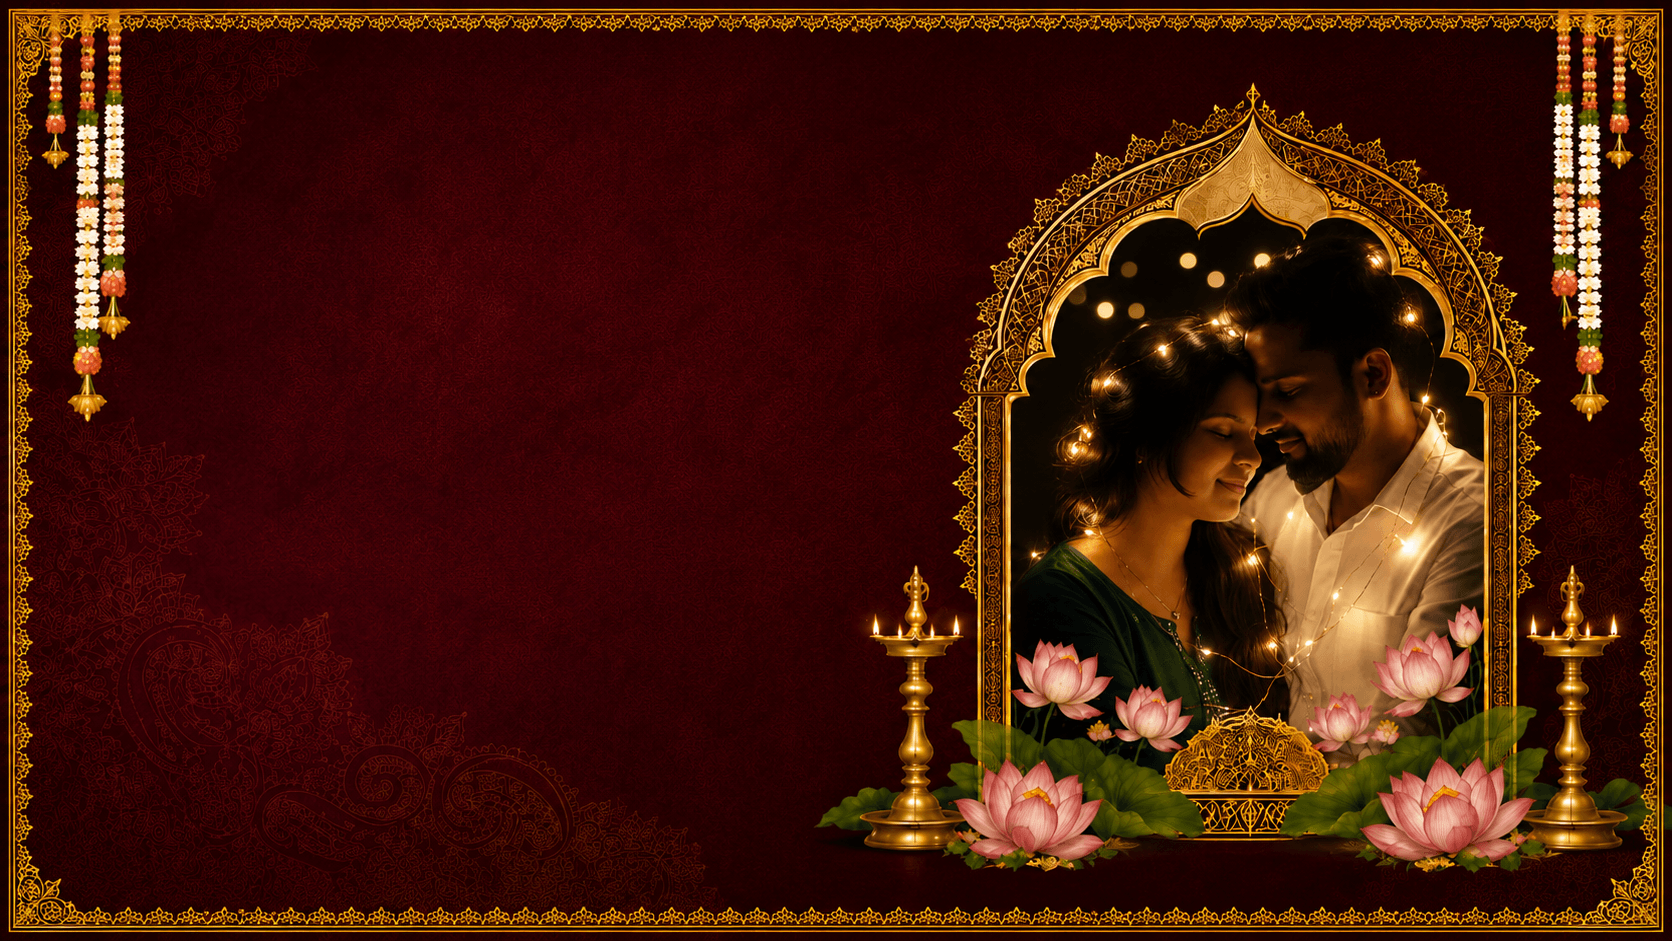
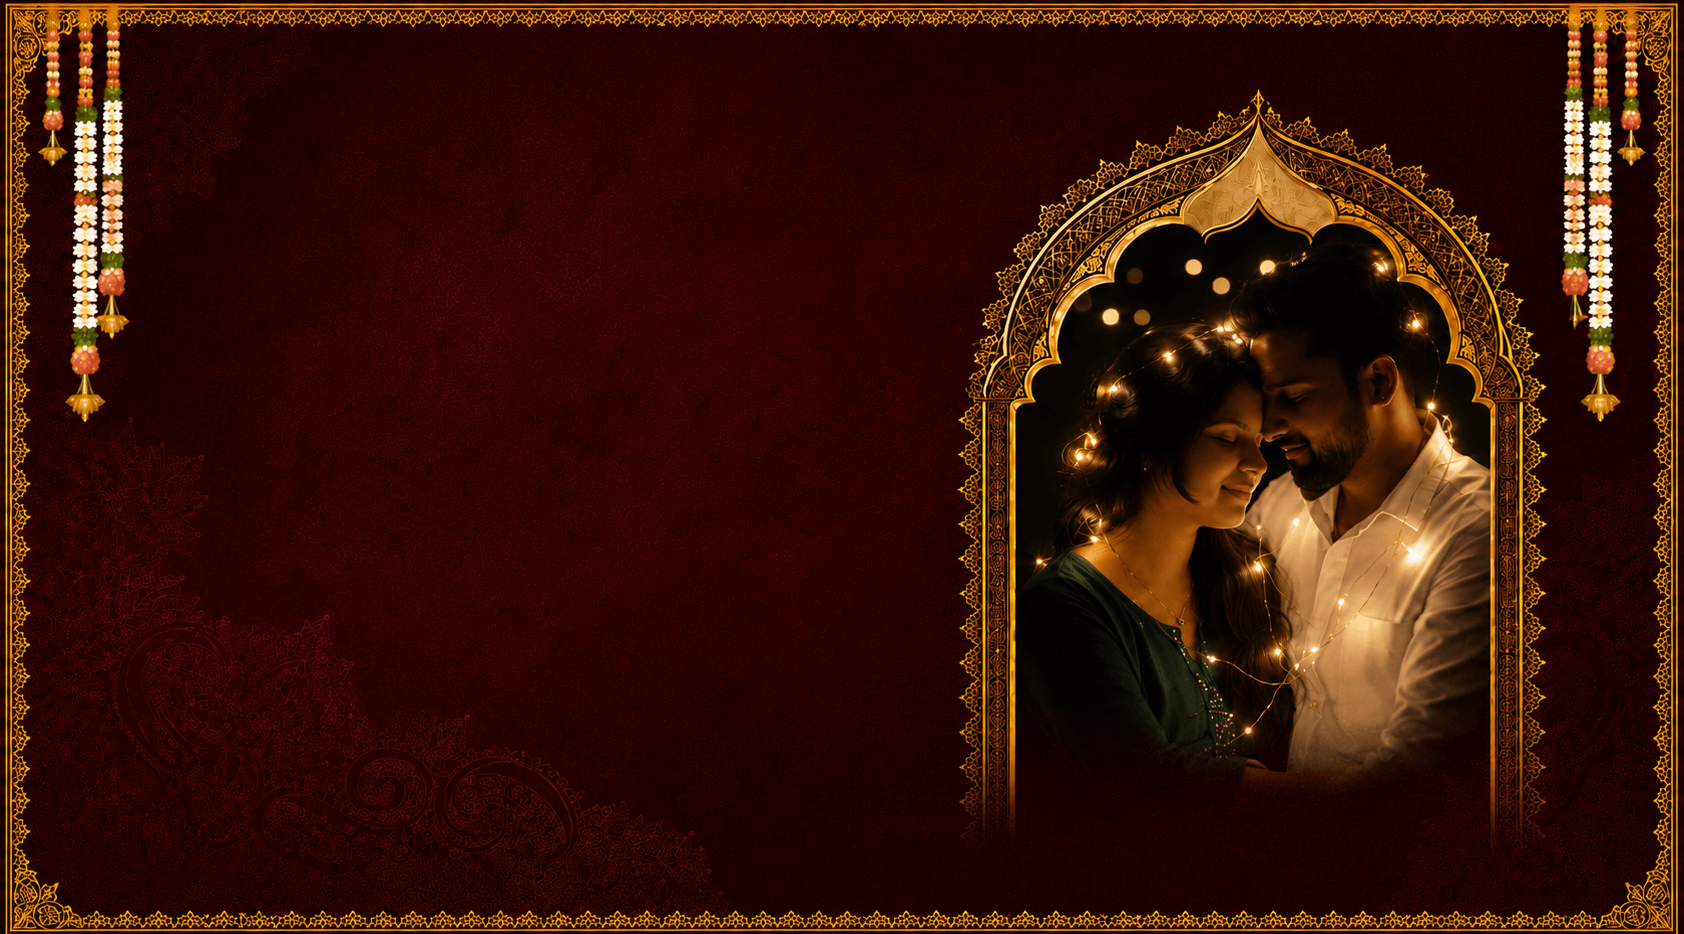
Change RSVP section , Change imges

diff --git a/index.html b/index.html
@@ -1323,6 +1323,18 @@
                 font-size: 26px;
             }
         }
+
+        section.details-section.rsvp-section {
+            background: linear-gradient(160deg, #6d0817, #3f0710);
+        }
+
+        .rsvp-section .section-title {
+            color: var(--gold-2);
+        }
+
+        .rsvp-section .section-subtitle {
+            color: #f6dfc6;
+        }
     </style>
 </head>
 
@@ -1453,6 +1465,51 @@
             </div>
         </section>
 
+        <section class="details-section rsvp-section">
+            <div class="container">
+                <div class="ornament-line">✦</div>
+                <h2 class="section-title">RSVP</h2>
+                <p class="section-subtitle">Kindly let us know if you will be able to join us for our wedding
+                    celebration.</p>
+                <form class="rsvp-card rsvp-form" id="rsvp">
+                    <h3>Kindly RSVP</h3>
+                    <div class="form-grid">
+                        <label class="form-field"><input type="text" id="FName" name="FName"
+                                placeholder="First Name"></label>
+                        <label class="form-field"><input type="text" id="LName" name="LName"
+                                placeholder="Last Name"></label>
+                        <label class="form-field"><input type="number" id="Guests" name="Guests"
+                                placeholder="No. of Guests"></label>
+                        <label class="form-field"><input type="tel" placeholder="Phone Number" name="PhoneNumber"
+                                id="PhoneNumber" pattern="[0-9]{10}" maxlength="10" /></label>
+                        <div class="come-wrap">
+                            <label for="Response" class="d-flex">Will you come?</label>
+                            <div class="check-wrapper">
+                                <div><input type="radio" id="Response1" name="Response" value="Yes, I will" required>
+                                    <label for="Response1">Yes, I will</label><br>
+                                </div>
+
+                                <div><input type="radio" id="Response2" name="Response" value="Unfortunately, I am not">
+                                    <label for="Response2">Unfortunately, I cannot</label><br>
+                                </div>
+
+                                <div><input type="radio" id="Response3" name="Response"
+                                        value="I will tell you a bit later">
+                                    <label for="Response3">I will let you know
+                                        later</label><br><br>
+                                </div>
+                            </div>
+                        </div>
+
+
+                        <button class="rsvp-btn" type="submit">Reserve My Seat</button>
+                    </div>
+                    <p class="form-note" id="formNote">We look forward to celebrating with you.</p>
+                </form>
+
+        </section>
+
+
         <section class="details-section" id="details">
             <div class="container">
                 <div class="ornament-line">✦</div>
@@ -1572,49 +1629,6 @@
             </div>
         </section>
 
-        <section class="details-section rsvp-section">
-            <div class="container">
-                <div class="ornament-line">✦</div>
-                <h2 class="section-title">RSVP</h2>
-                <p class="section-subtitle">Kindly let us know if you will be able to join us for our wedding
-                    celebration.</p>
-                <form class="rsvp-card rsvp-form" id="rsvp">
-                    <h3>Kindly RSVP</h3>
-                    <div class="form-grid">
-                        <label class="form-field"><input type="text" id="FName" name="FName"
-                                placeholder="First Name"></label>
-                        <label class="form-field"><input type="text" id="LName" name="LName"
-                                placeholder="Last Name"></label>
-                        <label class="form-field"><input type="number" id="Guests" name="Guests"
-                                placeholder="No. of Guests"></label>
-                        <label class="form-field"><input type="tel" placeholder="Phone Number" name="PhoneNumber"
-                                id="PhoneNumber" pattern="[0-9]{10}" maxlength="10" /></label>
-                        <div class="come-wrap">
-                            <label for="Response" class="d-flex">Will you come?</label>
-                            <div class="check-wrapper">
-                                <div><input type="radio" id="Response1" name="Response" value="Yes, I will" required>
-                                    <label for="Response1">Yes, I will</label><br>
-                                </div>
-
-                                <div><input type="radio" id="Response2" name="Response" value="Unfortunately, I am not">
-                                    <label for="Response2">Unfortunately, I cannot</label><br>
-                                </div>
-
-                                <div><input type="radio" id="Response3" name="Response"
-                                        value="I will tell you a bit later">
-                                    <label for="Response3">I will let you know
-                                        later</label><br><br>
-                                </div>
-                            </div>
-                        </div>
-
-
-                        <button class="rsvp-btn" type="submit">Reserve My Seat</button>
-                    </div>
-                    <p class="form-note" id="formNote">We look forward to celebrating with you.</p>
-                </form>
-
-        </section>
 
         <section class="location-section" id="location">
             <div class="container">
